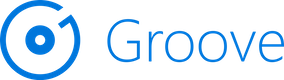
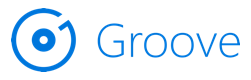
Update service images for retina, remove rdio :(

Changed region(s): [[0.3625, 0.225, 1.0, 0.8], [0.0, 0.0, 0.3068, 1.0]]

diff --git a/views/share.js b/views/share.js
@@ -39,7 +39,7 @@ const MusicItem = React.createClass({
       return (
         <div className='col-md-3 col-xs-6'>
           <div className={'service' + (this.props.inc === 0 ? ' source-service' : '')}>
-            <div className='matching-from hidden-xs'>{this.props.inc === 0 ? 'Found matches using this link' : ''}</div>
+            <div className='matching-from'>{this.props.inc === 0 ? 'Found matches using' : ''}</div>
             <a href={this.props.item.streamUrl || this.props.item.purchaseUrl}>
               <div className={this.props.item.service === 'youtube' ? 'artwork-youtube artwork' : 'artwork'} style={{backgroundImage: 'url(' + this.props.item.artwork.small + ')'}}>
               </div>
@@ -47,11 +47,11 @@ const MusicItem = React.createClass({
                 {this.props.item.service === 'youtube' && this.props.inc > 0 ? this.props.item.name : ''}
               </div>
             </a>
-            <div className='service-link'>
-              <a href={this.props.item.streamUrl || this.props.item.purchaseUrl}>
-                <img src={'/images/' + this.props.item.service + '.png'} className='img-rounded' />
-              </a>
-            </div>
+          </div>
+          <div className='service-link'>
+            <a href={this.props.item.streamUrl || this.props.item.purchaseUrl}>
+              <img src={'/images/' + this.props.item.service + '.png'} />
+            </a>
           </div>
         </div>
       );

diff --git a/public/stylesheets/style.css b/public/stylesheets/style.css
@@ -136,6 +136,7 @@ h3 {
 
 .service {
   padding: 40px 10px 10px 10px;
+  margin-bottom: 10px;
 }
 .matching-from {
   position: absolute;
@@ -152,7 +153,6 @@ h3 {
   width: 100%;
   height: 0;
   padding-bottom: 100%;
-  margin-bottom: 10px;
   background-repeat: none;
   background-size: cover;
   border-radius: 5px;
@@ -211,7 +211,7 @@ h3 {
   text-decoration: none;
 }
 .service-link img {
-  margin-bottom: 7px;
+  height: 40px;
 }
 
 .error {
